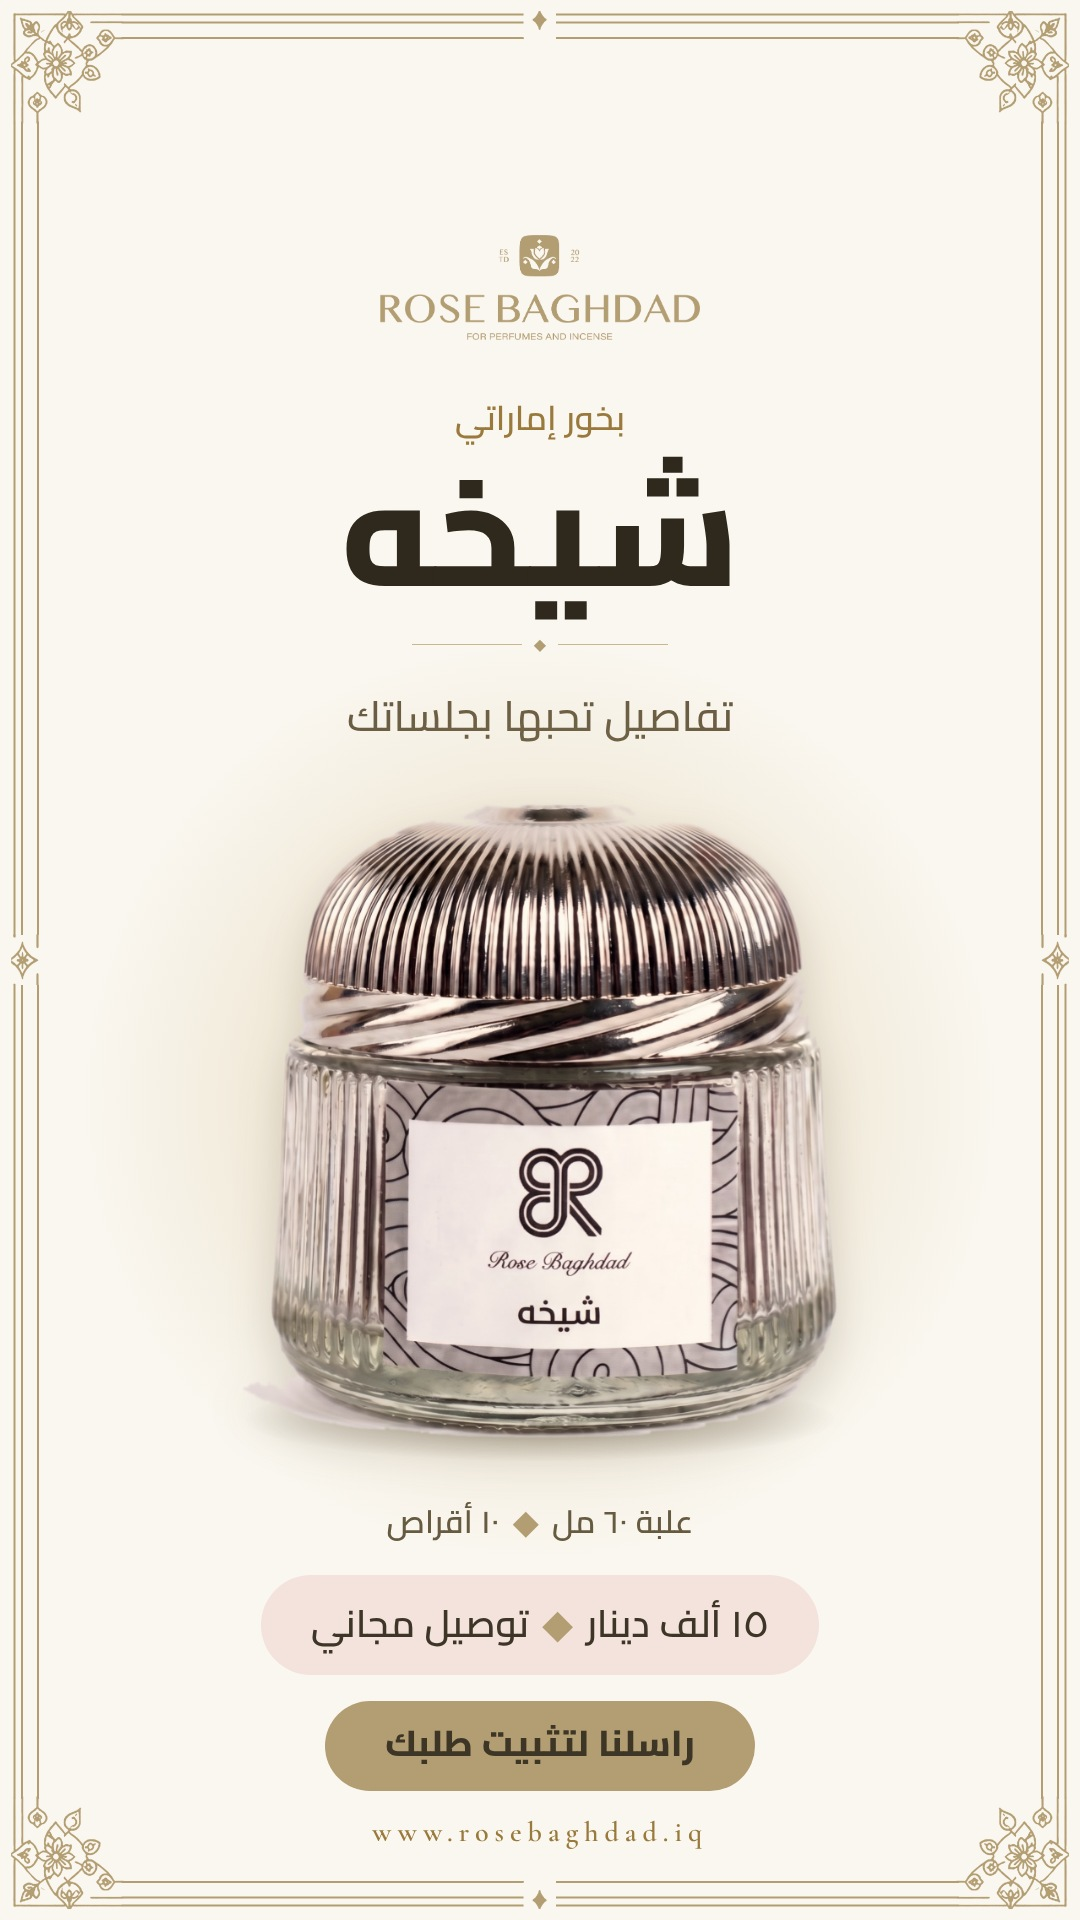
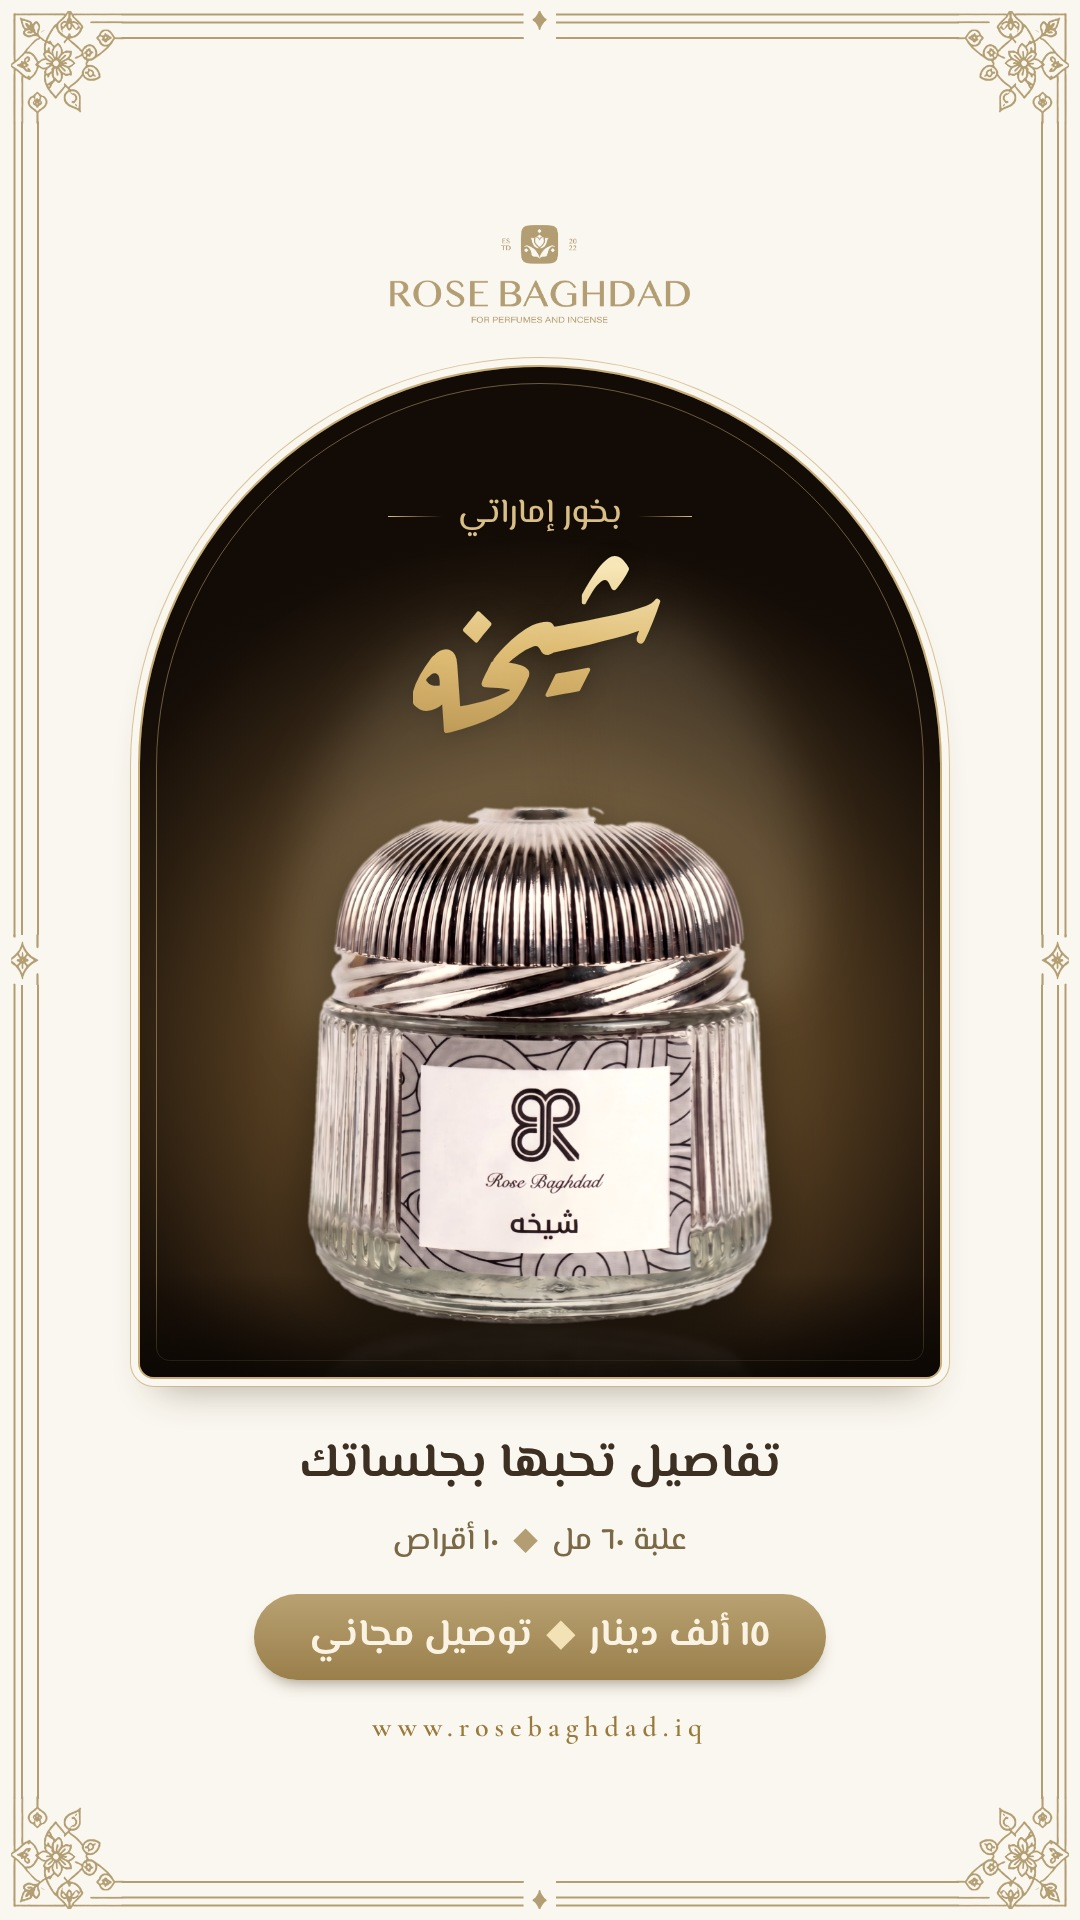
Incense cards v3: dark arched niche, calligraphic gold name, clean jar cut-out
Claude-Session: https://claude.ai/code/session_01HXze8h1ERTKVVJtJjHvpYz

diff --git a/tools/frame/incense_card.html b/tools/frame/incense_card.html
@@ -1,43 +1,52 @@
 <!doctype html><html lang="ar"><head><meta charset="utf-8"><style>
+/* Incense card v3: the unified cream + gold frame, with the jar staged in a dark arched niche (majlis arch) so the silver reads as jewellery. */
 @font-face{font-family:CG;font-weight:600;src:url(../reel/fonts/cormorant-garamond-latin-600-normal.woff2)}
-@font-face{font-family:CA;font-weight:500;src:url(../reel/fonts/cairo-arabic-500-normal.woff2);unicode-range:U+0600-06FF,U+0750-077F,U+FB50-FDFF,U+FE70-FEFF,U+066B-066C}
-@font-face{font-family:CA;font-weight:600;src:url(../reel/fonts/cairo-arabic-600-normal.woff2);unicode-range:U+0600-06FF,U+0750-077F,U+FB50-FDFF,U+FE70-FEFF,U+066B-066C}
-@font-face{font-family:CA;font-weight:800;src:url(../reel/fonts/cairo-arabic-800-normal.woff2);unicode-range:U+0600-06FF,U+0750-077F,U+FB50-FDFF,U+FE70-FEFF,U+066B-066C}
+@font-face{font-family:RQ;font-weight:700;src:url(../reel/fonts/aref-ruqaa-arabic-700-normal.woff2)}
+@font-face{font-family:EM;font-weight:500;src:url(../reel/fonts/el-messiri-arabic-500-normal.woff2)}
+@font-face{font-family:EM;font-weight:700;src:url(../reel/fonts/el-messiri-arabic-700-normal.woff2)}
 html,body{margin:0;background:#faf7f0}
 #r{width:1080px;position:relative;overflow:hidden;background:#faf7f0;display:flex;flex-direction:column;align-items:center;box-sizing:border-box}
 #fr{position:absolute;left:0;top:0;width:100%;height:100%}
 #r>*:not(#fr){position:relative}
-.kick{font-family:CA;font-weight:600;direction:rtl;color:#9a7a3c;letter-spacing:0}
-.name{font-family:CA;font-weight:800;direction:rtl;color:#2e281d;line-height:1.15}
-.dv{display:flex;align-items:center;gap:12px;color:#b39d72;font-size:16px}
-.dv i{display:block;width:110px;height:1px;background:#c9b88f}
-.hook{font-family:CA;font-weight:500;direction:rtl;color:#665a41;text-align:center}
-.stage{display:flex;justify-content:center;align-items:flex-end}
-.glow{position:absolute;left:50%;top:50%;transform:translate(-50%,-52%);border-radius:50%;background:radial-gradient(circle,rgba(201,173,116,.42) 0%,rgba(201,173,116,.16) 45%,rgba(201,173,116,0) 70%)}
-.sh{position:absolute;left:50%;transform:translateX(-50%);border-radius:50%;background:radial-gradient(ellipse at center,rgba(61,46,20,.42) 0%,rgba(61,46,20,.14) 45%,rgba(61,46,20,0) 72%)}
-.jar{position:relative;filter:drop-shadow(0 18px 22px rgba(61,46,20,.18))}
-.ft{font-family:CA;font-weight:600;direction:rtl;color:#665a41}
-.ft b,.pill b{color:#b39d72;font-weight:600;margin:0 14px}
-.pill{font-family:CA;font-weight:600;direction:rtl;background:#f4e2dc;color:#3d3627;border-radius:60px}
-.cta{font-family:CA;font-weight:800;direction:rtl;color:#3d3627;background:#b39d72;border-radius:60px}
+.arch{overflow:hidden;background:radial-gradient(ellipse 75% 55% at 50% 70%,#6a4720 0%,#3a2611 38%,#1c1209 72%,#120b06 100%);box-shadow:0 0 0 2px #c9ad74,0 0 0 9px #faf7f0,0 0 0 10px rgba(201,173,116,.7),0 26px 40px -18px rgba(61,46,20,.45);display:flex;flex-direction:column;align-items:center}
+.arch:before{content:"";position:absolute;inset:16px;border:1px solid rgba(214,186,128,.45);border-radius:inherit;pointer-events:none}
+.kick{font-family:EM;font-weight:500;direction:rtl;color:#d9bf85;position:relative}
+.kick:before,.kick:after{content:"";position:absolute;top:55%;width:54px;height:1px;background:linear-gradient(90deg,rgba(217,191,133,0),#d9bf85)}
+.kick:before{right:calc(100% + 16px);transform:scaleX(-1)}.kick:after{left:calc(100% + 16px)}
+.name{font-family:RQ;font-weight:700;direction:rtl;line-height:1.5;background:linear-gradient(180deg,#f7e7b8 18%,#d8b469 52%,#a57f3a 86%);-webkit-background-clip:text;background-clip:text;color:transparent;filter:drop-shadow(0 3px 10px rgba(0,0,0,.45));position:relative}
+.stage{position:absolute;left:0;right:0;bottom:0;display:flex;justify-content:center}
+.spot{position:absolute;left:50%;transform:translateX(-50%);border-radius:50%;background:radial-gradient(circle,rgba(255,220,150,.42) 0%,rgba(255,206,128,.14) 42%,rgba(255,206,128,0) 68%)}
+.floor{position:absolute;left:0;right:0;bottom:0;background:linear-gradient(rgba(18,11,6,0),rgba(10,6,3,.85))}
+.jar{position:absolute;left:50%;transform:translateX(-50%);filter:drop-shadow(0 22px 26px rgba(0,0,0,.55)) saturate(.9) contrast(1.06)}
+.refl{position:absolute;left:50%;transform:translateX(-50%) scaleY(-1);opacity:.22;filter:blur(3px);-webkit-mask-image:linear-gradient(to top,#000 0%,rgba(0,0,0,0) 38%);mask-image:linear-gradient(to top,#000 0%,rgba(0,0,0,0) 38%)}
+.smoke{position:absolute;border-radius:50%;filter:blur(26px);background:rgba(255,236,200,.13)}
+.hook{font-family:EM;font-weight:700;direction:rtl;color:#3d3023;text-align:center}
+.spec{font-family:EM;font-weight:500;direction:rtl;color:#7a6846}
+.spec b,.pill b{color:#b39d72;font-weight:500;margin:0 14px}
+.pill{font-family:EM;font-weight:700;direction:rtl;color:#faf3e3;background:linear-gradient(180deg,#b9a172,#9a7f4b);border-radius:60px;box-shadow:0 10px 18px -10px rgba(61,46,20,.6)}
+.pill b{color:#f3e2b5}
 .url{font-family:CG;font-weight:600;letter-spacing:6px;color:#9a7a3c}
 </style></head><body><div id="r"></div>
 <script>
-const q=new URLSearchParams(location.search),S=q.get('f')==='story',r=document.getElementById('r'),J=S?640:500;
+const q=new URLSearchParams(location.search),S=q.get('f')==='story',r=document.getElementById('r');
+const AW=S?800:740,AH=S?1010:770,J=S?520:400,k=q.get('k');
 r.style.height=(S?1920:1350)+'px';
 r.innerHTML=`<img id="fr" src="frame_${S?'story':'feed'}.png">
-<img src="../reel/horizontal_gold.png" style="width:${S?320:270}px;margin-top:${S?235:88}px">
-<div class="kick" style="font-size:${S?34:28}px;margin-top:${S?46:22}px">بخور إماراتي</div>
-<div class="name" style="font-size:${S?150:118}px;margin-top:${S?0:-6}px">${q.get('name')}</div>
-<div class="dv" style="margin-top:${S?14:4}px"><i></i>◆<i></i></div>
-<div class="hook" style="font-size:${S?42:34}px;margin-top:${S?22:12}px">${q.get('hook')}</div>
-<div class="stage" style="height:${J}px;margin-top:${S?44:22}px">
- <div class="glow" style="width:${J*1.45}px;height:${J*1.45}px"></div>
- <div class="sh" style="width:${J*.92}px;height:${J*.13}px;bottom:${-J*.035}px"></div>
- <img class="jar" src="cut/${q.get('k')}.png" style="height:${J}px">
+<img src="../reel/horizontal_gold.png" style="width:${S?300:240}px;margin-top:${S?225:84}px">
+<div class="arch" style="width:${AW}px;height:${AH}px;border-radius:${AW/2}px ${AW/2}px 14px 14px;margin-top:${S?44:30}px">
+ <div class="kick" style="font-size:${S?34:28}px;margin-top:${S?120:88}px">بخور إماراتي</div>
+ <div class="name" style="font-size:${S?170:136}px;margin-top:${S?-18:-20}px">${q.get('name')}</div>
+ <div class="stage" style="height:${J*1.25}px">
+  <div class="spot" style="width:${J*1.9}px;height:${J*1.9}px;bottom:${-J*.25}px"></div>
+  <div class="smoke" style="width:${J*.5}px;height:${J*.9}px;left:${AW*.2}px;bottom:${J*.55}px;transform:rotate(18deg)"></div>
+  <div class="smoke" style="width:${J*.4}px;height:${J*.8}px;right:${AW*.18}px;bottom:${J*.7}px;transform:rotate(-22deg)"></div>
+  <img class="refl" src="cut/${k}.png" style="height:${J}px;bottom:${J*.11-J}px">
+  <div class="floor" style="height:${J*.2}px"></div>
+  <img class="jar" src="cut/${k}.png" style="height:${J}px;bottom:${J*.1}px">
+ </div>
 </div>
-<div class="ft" style="font-size:${S?32:27}px;margin-top:${S?52:34}px">علبة ٦٠ مل<b>◆</b>١٠ أقراص</div>
-<div class="pill" style="font-size:${S?38:32}px;padding:${S?'12px 50px 16px':'10px 44px 14px'};margin-top:${S?24:16}px">١٥ ألف دينار<b>◆</b>توصيل مجاني</div>
-${S?`<div class="cta" style="font-size:36px;padding:8px 60px 14px;margin-top:26px">راسلنا لتثبيت طلبك</div>`:''}
-<div class="url" style="font-size:${S?28:24}px;margin-top:${S?24:14}px">www.rosebaghdad.iq</div>`;
+<div class="hook" style="font-size:${S?48:40}px;margin-top:${S?50:30}px">${q.get('hook')}</div>
+<div class="spec" style="font-size:${S?32:26}px;margin-top:${S?14:4}px">علبة ٦٠ مل<b>◆</b>١٠ أقراص</div>
+<div class="pill" style="font-size:${S?38:31}px;padding:${S?'12px 56px 14px':'8px 46px 10px'};margin-top:${S?28:14}px">١٥ ألف دينار<b>◆</b>توصيل مجاني</div>
+<div class="url" style="font-size:${S?28:23}px;margin-top:${S?30:14}px">www.rosebaghdad.iq</div>`;
 </script></body></html>
